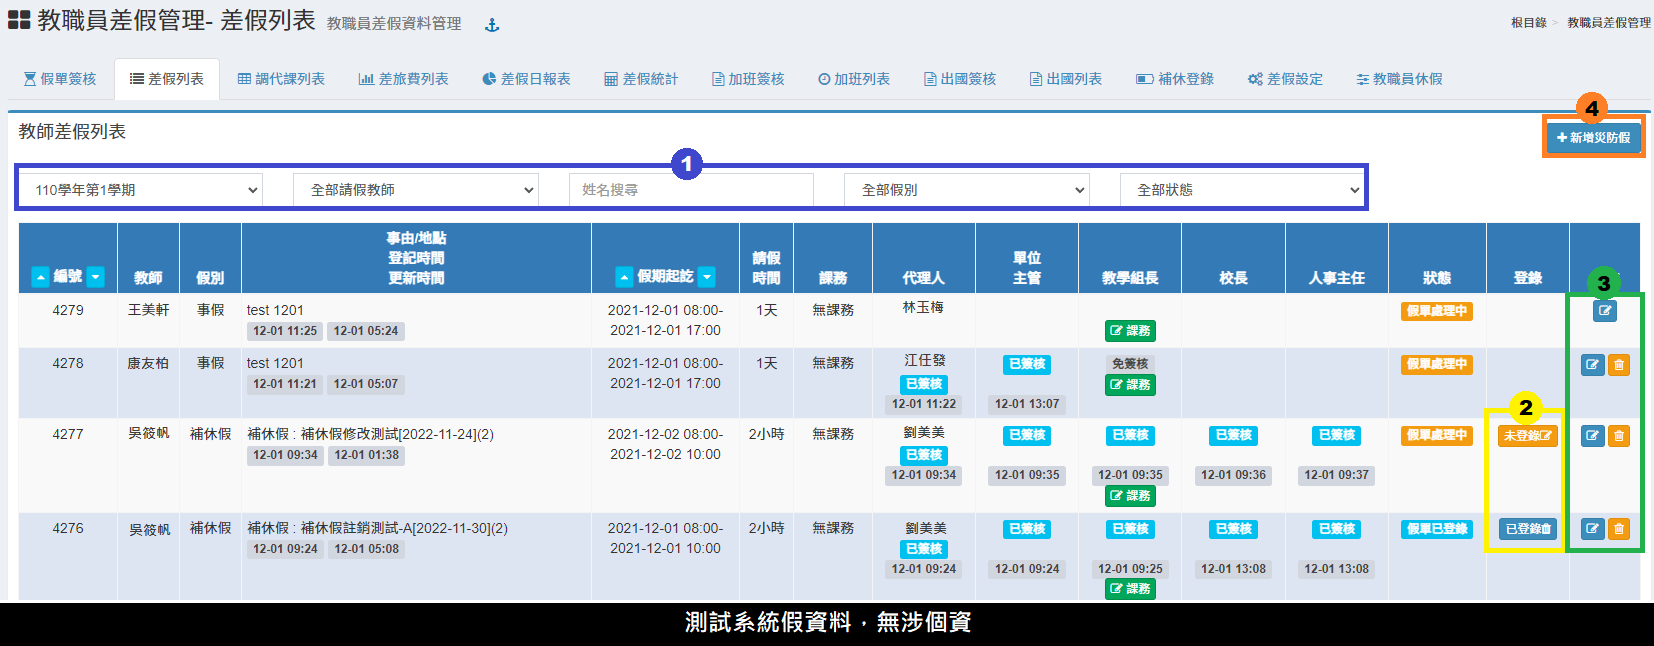
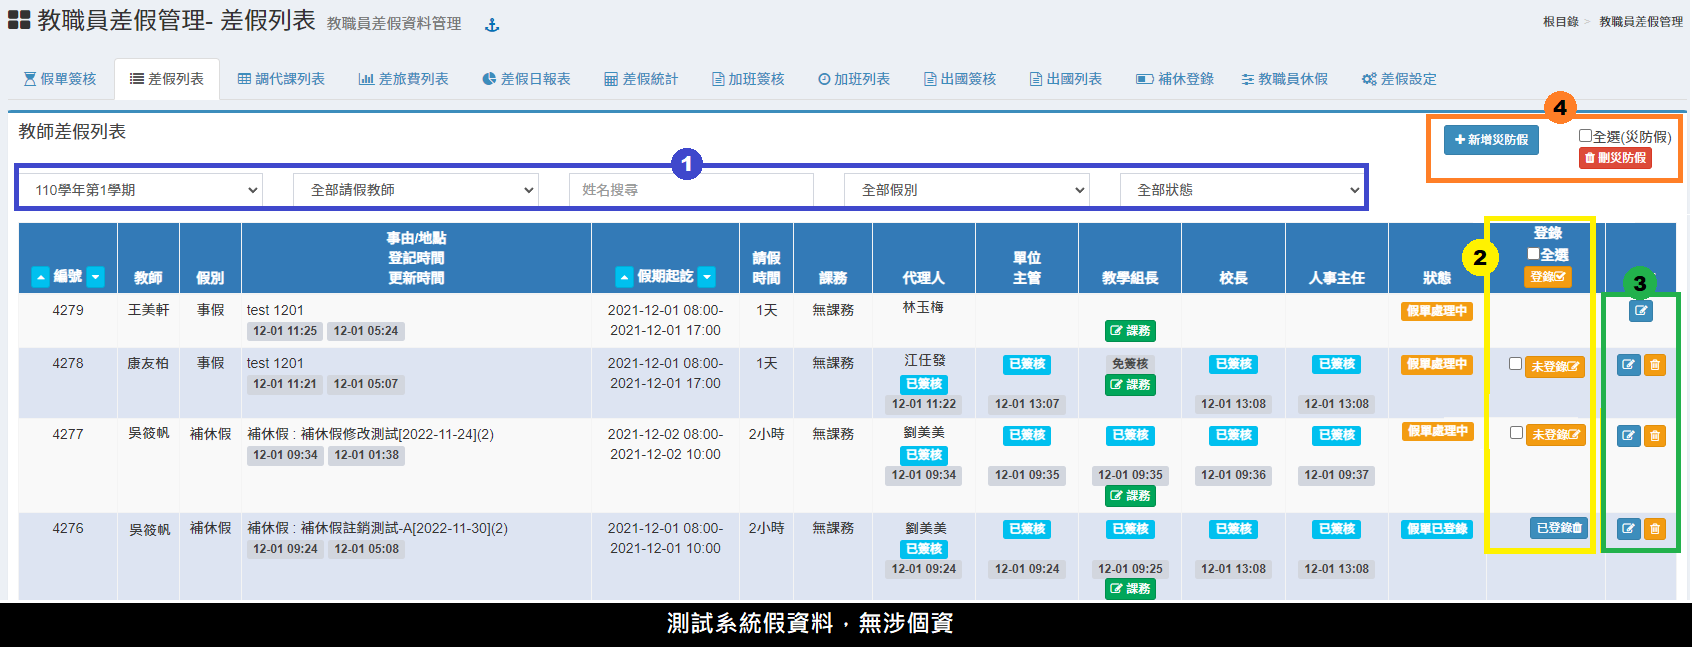
GitBook: [#351] 更新-差假管理-差假列表-新增批次登錄功能 0216

diff --git a/xiao-hang-zheng/jiao-zhi-yuan-cha-jia-cha-jia-guan-li.md b/xiao-hang-zheng/jiao-zhi-yuan-cha-jia-cha-jia-guan-li.md
@@ -228,10 +228,10 @@
 
 > 建議授權給單位主管和所有簽核人員。
 
-![](<../.gitbook/assets/absent-show-all (1).png>)
+![](<../.gitbook/assets/absent-show-all (2).png>)
 
 1. 選擇**「學期、請假教師、假別、假單狀態」**篩選假單紀錄。
-2. 假單登錄人員，在假單簽核完畢後可以按下**「登錄」**。
+2. 假單登錄人員，在假單簽核完畢後可以按下**「登錄」**; 勾選假單點擊上方登錄可進行**「批次登錄」**。
 3. 擁有「差假列表」權限人員，都可以**「編輯」**假單；擁有「假單登錄」權限人員，可以**「編輯、註銷」**假單。（如代理人尚未簽核，僅能由請假人提出銷假申請）
 4. **「新增災防假」**，學校主管可以幫全體教職員一次性申請災防假使用。\
    **「刪除災防假」**，可勾選全選，一次性刪除災防假。
